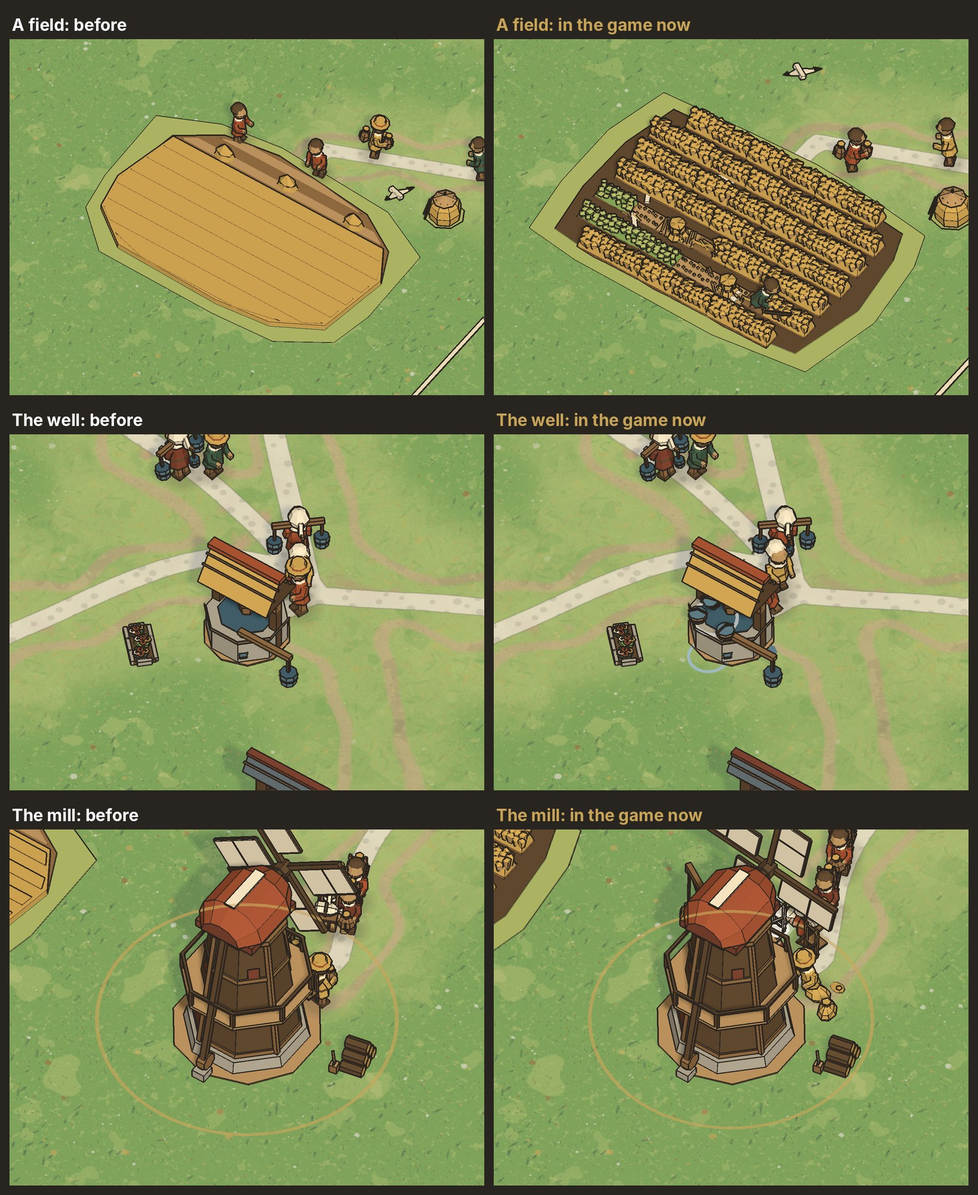
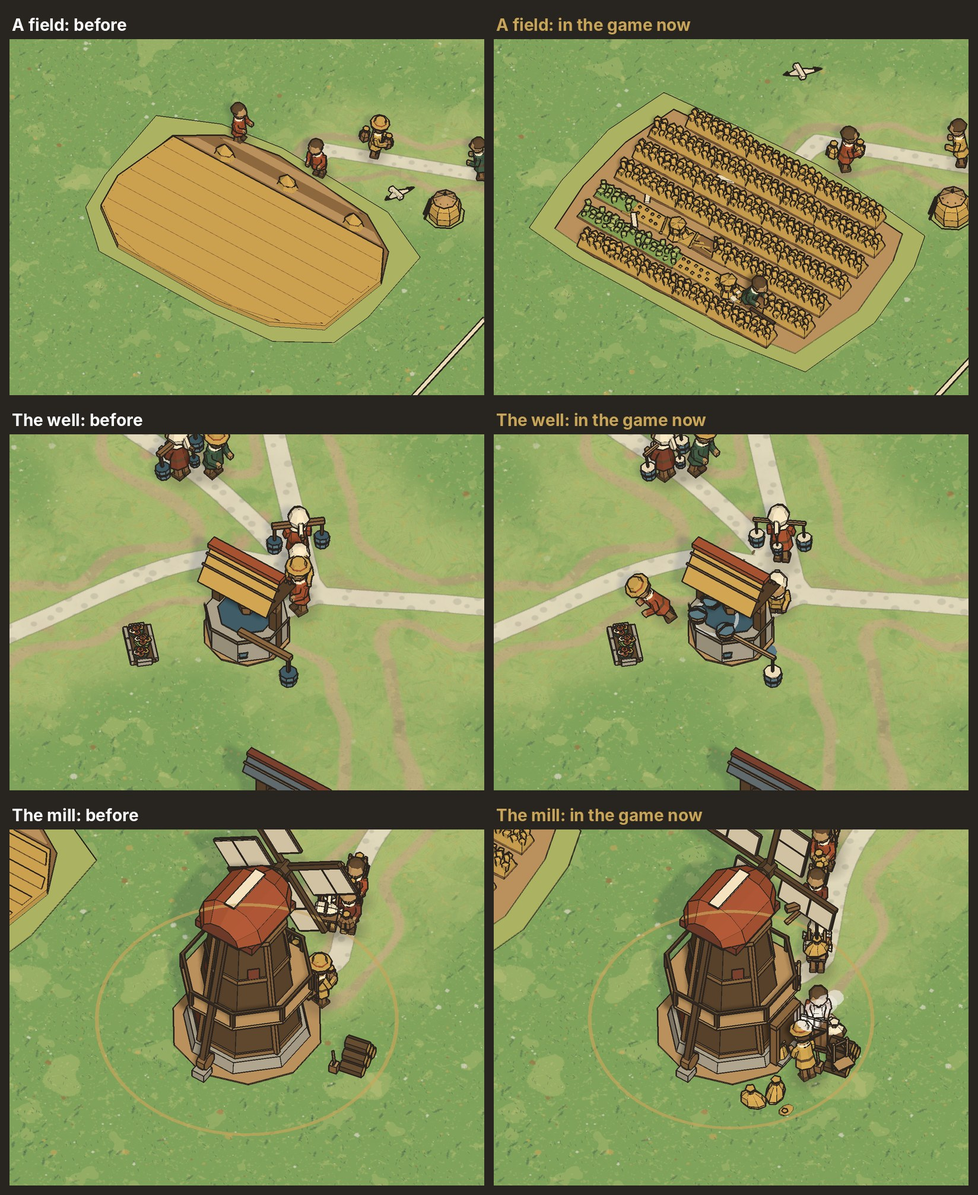
Snapshot: log and the before-and-after board after the fix round
Claude-Session: https://claude.ai/code/session_017q4atD9S5umMXhdUL1pfcb

diff --git a/docs/incremental-log.md b/docs/incremental-log.md
@@ -37,7 +37,7 @@ The owner approved everything open: the boats, the villager roles, the ink lines
 
 | Work | Sheet | Builder's checkout | Due (UTC) | State |
 | --- | --- | --- | --- | --- |
-| Villagers at work, the places | `docs/plans/n5/work-build-sheet.md` | `build/wt/n5-places` (`wt/n5-places`) | 12:30 | **done 11:28, merged as `1bcdfd7`**: field rows (fronts move per unit of work, regrowth, stooks), the well (bucket, pails, wet patch), the mill (door, sails by workers, puffs, sacks, hoist), the market table and stallholder, the cottage door and chimney; joined to the villagers through `IWorkSite`; check step `game-work-places`; sickle and scythe models. Not done: the hoist's running rope, the cottage's water butt; the mill's door faces away from the camera in the tour's town. Play-through unchanged. `game-motion` failed four times under load on CPU time only (also in the checkout without the places): to be run on a quiet machine. Real-game frames in `docs/plans/n5/after/`. The review (`docs/plans/n5/work-review.md`, 11:36): reaping reads as a scene; the well, mill and market hide their answers behind roof, sails and awning; props that read as mistakes (a dark T in the crop, a floating disc at the market, a fallen-looking stoop at the mill); the field too dark and loud; the line looks doubled. A fix round with nine points went to the places' builder at 11:38, due 12:50; then the whole check under the lock and a Windows build |
+| Villagers at work, the places | `docs/plans/n5/work-build-sheet.md` | `build/wt/n5-places` (`wt/n5-places`) | 12:30 | **done 11:28, merged as `1bcdfd7`**: field rows (fronts move per unit of work, regrowth, stooks), the well (bucket, pails, wet patch), the mill (door, sails by workers, puffs, sacks, hoist), the market table and stallholder, the cottage door and chimney; joined to the villagers through `IWorkSite`; check step `game-work-places`; sickle and scythe models. Not done: the hoist's running rope, the cottage's water butt; the mill's door faces away from the camera in the tour's town. Play-through unchanged. `game-motion` failed four times under load on CPU time only (also in the checkout without the places): to be run on a quiet machine. Real-game frames in `docs/plans/n5/after/`. The review (`docs/plans/n5/work-review.md`, 11:36): reaping reads as a scene; the well, mill and market hide their answers behind roof, sails and awning; props that read as mistakes (a dark T in the crop, a floating disc at the market, a fallen-looking stoop at the mill); the field too dark and loud; the line looks doubled. A fix round with nine points went to the places' builder at 11:38; done 12:18 and merged as `bc7c9fc` (all nine points; play-through unchanged; `game-work` and `game-work-places` pass). Two things open: `game-save` logged a quit-time error in one run of four (sent back at 12:22 to be fixed at the cause, with twenty runs as proof), and `game-motion` fails on its 6 ms gate while other builders load the machine (the gate measures wall-clock time of a frame, so it can only be believed on a quiet machine). Then the whole check on a clean copy under the lock and a Windows build |
 | The boats, the quay, the crane | `docs/plans/n6/boats-build-sheet.md` | `build/wt/n6-boats-build` (`wt/n6-boats-build`) | 13:40 | started 10:55 |
 | Villagers as people (step 1 of roles) | `docs/plans/n7/people-build-sheet.md` | `build/wt/n7-people` (`wt/n7-people`) | 14:00 | started 10:55; the simulation part is committed first and may be merged early |
 | Ink lines and blur | `docs/plans/n8/research/ink-experiments.md` (the recommendation); the owner at 11:20: "Do the recommended" | `build/wt/n8-ink` (`wt/n8-ink`) | 13:15 | building since 11:21: two line weights in the shader (silhouettes in Ink, inner creases thin and in the darkened colour under them), thatch courses and other inner lines painted flat in the models, the width rule's rounding, the style sheet's Line section, a check step `game-ink`, a before-and-after board. Measured in the research: a cottage is 54 to 66 percent ink now and about 22 with the recommendation; nothing in the game scales or blurs the picture (the owner's picture was enlarged after the game drew it) |
